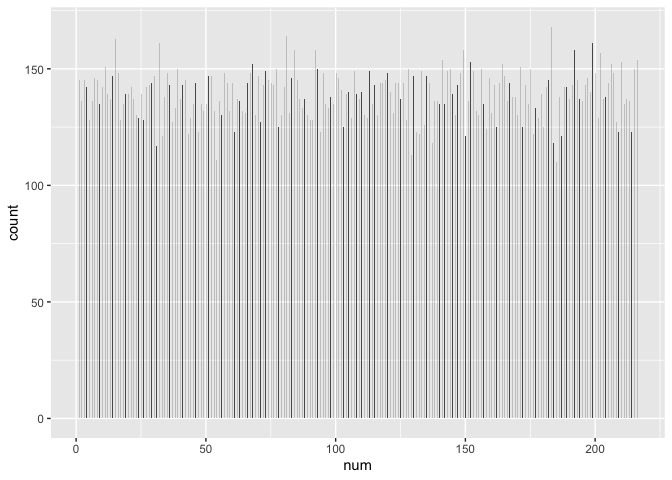
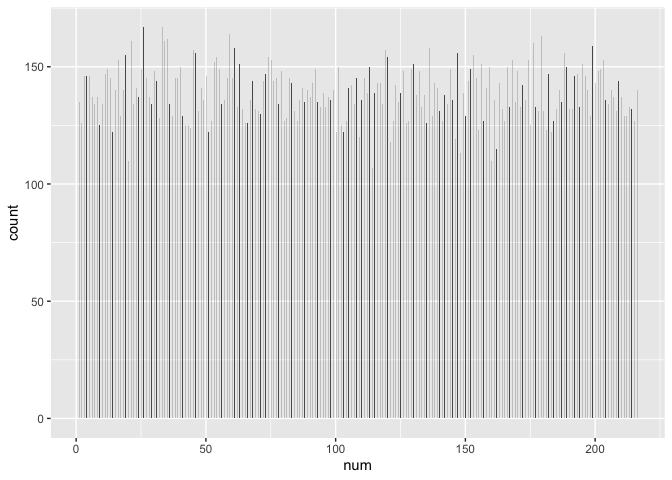
This is a die roll experiment project

diff --git a/Die_Roll_Experiment_Project.md b/Die_Roll_Experiment_Project.md
@@ -114,12 +114,12 @@ head(df)
 ```
 
     ##   result
-    ## 1    616
-    ## 2    453
-    ## 3    444
-    ## 4    321
-    ## 5    543
-    ## 6    624
+    ## 1    536
+    ## 2    561
+    ## 3    126
+    ## 4    251
+    ## 5    143
+    ## 6    555
 
 ## Joining the Two Tables
 
@@ -167,16 +167,16 @@ head(final.table,10)
     ## # Groups:   num, result [10]
     ##      num result     n
     ##    <dbl>  <dbl> <int>
-    ##  1     1    111   151
-    ##  2     2    211   130
-    ##  3     3    311   137
-    ##  4     4    411   142
-    ##  5     5    511   154
-    ##  6     6    611   126
-    ##  7     7    121   144
-    ##  8     8    221   139
-    ##  9     9    321   145
-    ## 10    10    421   152
+    ##  1     1    111   129
+    ##  2     2    211   128
+    ##  3     3    311   128
+    ##  4     4    411   137
+    ##  5     5    511   133
+    ##  6     6    611   132
+    ##  7     7    121   130
+    ##  8     8    221   138
+    ##  9     9    321   136
+    ## 10    10    421   136
 
 ``` r
 tail(final.table,10)
@@ -186,15 +186,15 @@ tail(final.table,10)
     ## # Groups:   num, result [10]
     ##      num result     n
     ##    <dbl>  <dbl> <int>
-    ##  1   207    356   148
-    ##  2   208    456   136
-    ##  3   209    556   128
-    ##  4   210    656   136
-    ##  5   211    166   157
-    ##  6   212    266   130
-    ##  7   213    366   131
-    ##  8   214    466   146
-    ##  9   215    566   167
+    ##  1   207    356   147
+    ##  2   208    456   146
+    ##  3   209    556   147
+    ##  4   210    656   155
+    ##  5   211    166   141
+    ##  6   212    266   132
+    ##  7   213    366   142
+    ##  8   214    466   133
+    ##  9   215    566   136
     ## 10   216    666   135
 
 ``` r
